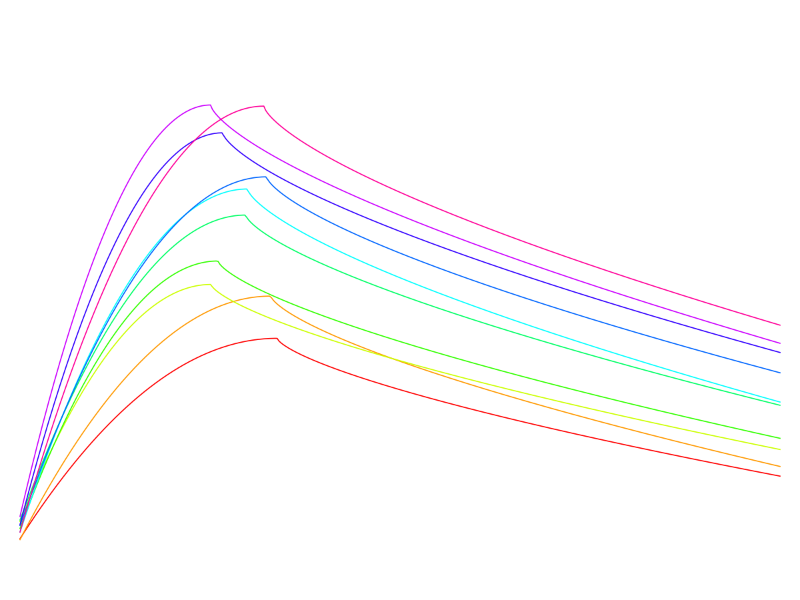
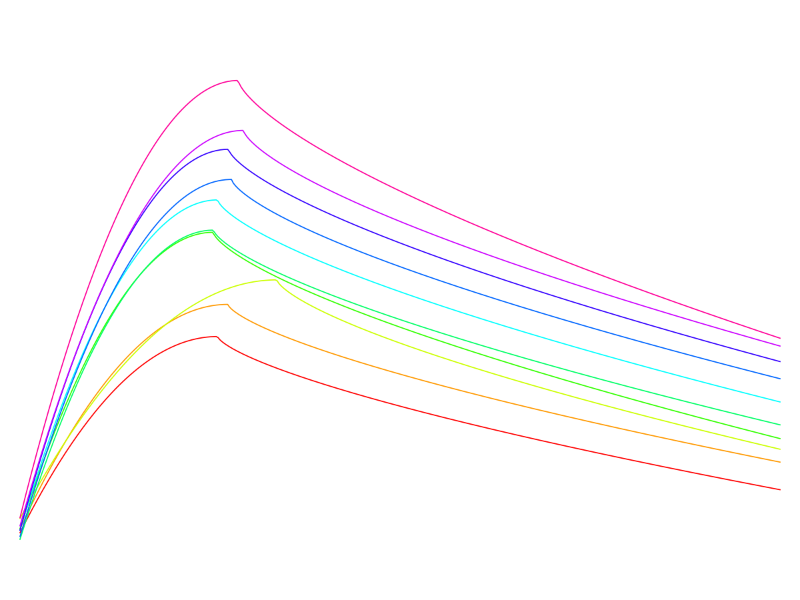
updating

Changed region(s): [[0.0, 0.15, 0.9688, 0.9], [0.3438, 0.21, 0.375, 0.24], [0.2812, 0.12, 0.3125, 0.15]]

diff --git a/new_approach/synthetic/synthetic_v5.py b/new_approach/synthetic/synthetic_v5.py
@@ -320,6 +320,31 @@ def generate_curve_shape(
                 progress = (t - peak_pos) / (1 - peak_pos)
                 y[i] = peak_y - (peak_y - end_y) * (progress ** 0.7)
                 
+    elif curve_type == 'peaked_oval':
+        peak_pos = 0.45 + random.uniform(-0.07, 0.07)
+        start_y = 0.12 + random.uniform(-0.02, 0.02)
+        peak_y = 0.45 + alt * 0.38 + random.uniform(-0.03, 0.03)
+        end_y = 0.20 + alt * 0.25 + random.uniform(-0.02, 0.02)
+        
+        y = np.zeros_like(x_norm)
+        for i, t in enumerate(x_norm):
+            if t <= peak_pos:
+                progress = t / peak_pos
+                y[i] = start_y + (peak_y - start_y) * (math.sin(progress * math.pi / 2) ** 1.2)
+            else:
+                progress = (t - peak_pos) / (1 - peak_pos)
+                y[i] = end_y + (peak_y - end_y) * (math.cos(progress * math.pi / 2) ** 1.2)
+                
+    elif curve_type == 'wavy':
+        freq = random.choice([1.0, 1.5, 2.0])
+        phase = random.uniform(0, 1)
+        wave = 0.5 + 0.25 * np.sin(2 * np.pi * (x_norm * freq + phase))
+        wave += 0.12 * np.sin(4 * np.pi * (x_norm * freq + phase))
+        hump_center = random.uniform(0.55, 0.70)
+        hump = 0.12 * np.exp(-((x_norm - hump_center) / 0.22) ** 2)
+        y = wave + hump
+        y = np.clip(y, 0.05, 0.95)
+        
     elif curve_type == 'rising':
         start_y = 0.08 + alt * 0.05 + random.uniform(-0.02, 0.02)
         end_y = 0.55 + alt * 0.30 + random.uniform(-0.03, 0.03)
@@ -333,7 +358,7 @@ def generate_curve_shape(
         y = start_y - (start_y - end_y) * (x_norm ** curvature)
         
     else:  # mixed
-        return generate_curve_shape(x, random.choice(['peaked', 'rising', 'falling']),
+        return generate_curve_shape(x, random.choice(['peaked', 'peaked_oval', 'rising', 'falling', 'wavy']),
                                    curve_index, total_curves)
     
     return y
@@ -627,11 +652,26 @@ def random_config() -> ChartConfig:
     x_min, x_max = random.choice(x_ranges)
     y_min, y_max = random.choice(y_ranges)
     
+    # Ağırlıklı curve type seçimi
+    # peaked_oval: 28%, peaked: 26%, rising: 16%, falling: 14%, wavy: 10%, mixed: 6%
+    curve_types = ['peaked_oval'] * 28 + ['peaked'] * 26 + ['rising'] * 16 + ['falling'] * 14 + ['wavy'] * 10 + ['mixed'] * 6
+    curve_type = random.choice(curve_types)
+    
+    # Curve type'a göre farklı eğri sayıları
+    if curve_type == 'wavy':
+        n_curves = random.randint(3, 6)
+    elif curve_type in ['falling', 'mixed']:
+        n_curves = random.randint(4, 7)
+    elif curve_type == 'rising':
+        n_curves = random.randint(5, 8)
+    else:  # peaked, peaked_oval
+        n_curves = random.randint(6, 12)
+    
     return ChartConfig(
         x_min=x_min, x_max=x_max,
         y_min=y_min, y_max=y_max,
-        n_curves=random.randint(4, 12),
-        curve_type=random.choice(['peaked', 'peaked', 'rising', 'falling', 'mixed']),
+        n_curves=n_curves,
+        curve_type=curve_type,
         curve_lw=random.uniform(0.3, 0.6),  # Random thickness (0.3=very thin, 0.6=normal)
         add_grid=random.random() < 0.95,
         add_arrows=random.random() < 0.85,
@@ -672,21 +712,34 @@ def add_scan_artifacts(img: np.ndarray, strength: float = 1.0) -> np.ndarray:
 
 def make_sample(W: int = 512, H: int = 512, seed: int = None,
                 add_artifacts: bool = True) -> Tuple[np.ndarray, np.ndarray]:
-    """Generate a training sample."""
+    """
+    Generate a training sample.
+    
+    Returns:
+        input_img: Noisy chart image (BGR)
+        target_img: Clean colored curves on black background (BGR)
+    """
     if seed is not None:
         random.seed(seed)
         np.random.seed(seed)
     
     config = random_config()
-    full_img, mask, _ = draw_chart_matplotlib(config, W, H)
+    full_img, mask, curves_data = draw_chart_matplotlib(config, W, H)
     
     if add_artifacts:
         full_img = add_scan_artifacts(full_img)
     
+    # Generate colored curves target (black background)
+    target_colored = colorize_curves_from_data(
+        curves_data, config, W, H, 
+        show_axes=False, 
+        black_background=True
+    )
+    
     # Convert RGB to BGR for OpenCV
     full_img_bgr = cv2.cvtColor(full_img, cv2.COLOR_RGB2BGR)
     
-    return full_img_bgr, mask
+    return full_img_bgr, target_colored
 
 
 def colorize_curves_from_data(
@@ -696,12 +749,16 @@ def colorize_curves_from_data(
     H: int,
     show_axes: bool = True,
     axis_result: Optional[AxisDetectionResult] = None,
-    full_img_rgb: Optional[np.ndarray] = None
+    full_img_rgb: Optional[np.ndarray] = None,
+    black_background: bool = False
 ) -> np.ndarray:
     """
     Render colored curves directly from curve data so each curve
     gets a distinct color even if components touch.
     Also draws X and Y axes for reference.
+    
+    Args:
+        black_background: If True, use black background (for training target)
     """
     fig_w, fig_h = W / 100, H / 100
     fig, ax = plt.subplots(figsize=(fig_w, fig_h))
@@ -709,8 +766,10 @@ def colorize_curves_from_data(
     ax.set_ylim(config.y_min, config.y_max)
     ax.set_position([0, 0, 1, 1])
     ax.axis('off')
-    fig.patch.set_facecolor('white')
-    ax.set_facecolor('white')
+    
+    bg_color = 'black' if black_background else 'white'
+    fig.patch.set_facecolor(bg_color)
+    ax.set_facecolor(bg_color)
     
     # Draw X and Y axes
     if show_axes:
@@ -765,7 +824,7 @@ def colorize_curves_from_data(
 if __name__ == "__main__":
     import os
     
-    print("Generating V5 samples (matplotlib arrows, thin curves)...")
+    print("Generating V5 samples (colored curves output)...")
     
     # Test different types
     for ctype in ['peaked', 'rising', 'falling']:
@@ -781,27 +840,25 @@ if __name__ == "__main__":
         )
         
         full, mask, curves = draw_chart_matplotlib(config, W=800, H=600)
-        colored = colorize_curves_from_data(curves, config, W=800, H=600, show_axes=False)
+        # Colored curves on BLACK background (training target)
+        colored_target = colorize_curves_from_data(curves, config, W=800, H=600, show_axes=False, black_background=True)
+        # Colored curves on WHITE background (visualization)
+        colored_viz = colorize_curves_from_data(curves, config, W=800, H=600, show_axes=False, black_background=False)
         
         cv2.imwrite(f'v5_{ctype}.png', cv2.cvtColor(full, cv2.COLOR_RGB2BGR))
-        cv2.imwrite(f'v5_{ctype}_mask.png', mask)
-        cv2.imwrite(f'v5_{ctype}_colored.png', colored)
-        print(f"  ✓ v5_{ctype}.png")
+        cv2.imwrite(f'v5_{ctype}_target.png', colored_target)  # This is the new target!
+        cv2.imwrite(f'v5_{ctype}_colored.png', colored_viz)
+        print(f"  ✓ v5_{ctype}.png + target")
     
-    # Random samples
-    print("\nRandom samples with artifacts:")
+    # Random samples with new make_sample() that returns colored target
+    print("\nRandom samples (input + colored target):")
     for i in range(5):
-        if i * 10 is not None:
-            random.seed(i * 10)
-            np.random.seed(i * 10)
-        config = random_config()
-        full, mask, curves = draw_chart_matplotlib(config, W=512, H=512)
-        full = add_scan_artifacts(full)
-        full_bgr = cv2.cvtColor(full, cv2.COLOR_RGB2BGR)
-        colored = colorize_curves_from_data(curves, config, W=512, H=512, show_axes=False)
-        cv2.imwrite(f'v5_random_{i}.png', full_bgr)
-        cv2.imwrite(f'v5_random_{i}_mask.png', mask)
-        cv2.imwrite(f'v5_random_{i}_colored.png', colored)
-        print(f"  ✓ v5_random_{i}.png")
+        input_img, target_img = make_sample(W=512, H=512, seed=i*10, add_artifacts=True)
+        cv2.imwrite(f'v5_random_{i}_input.png', input_img)
+        cv2.imwrite(f'v5_random_{i}_target.png', target_img)
+        print(f"  ✓ v5_random_{i} (input + target)")
     
     print("\n✅ Done! Check v5_*.png files")
+    print("📌 NEW: Target is now COLORED CURVES on black background!")
+    print("   - Input: noisy chart (v5_random_*_input.png)")
+    print("   - Target: clean colored curves (v5_random_*_target.png)")
